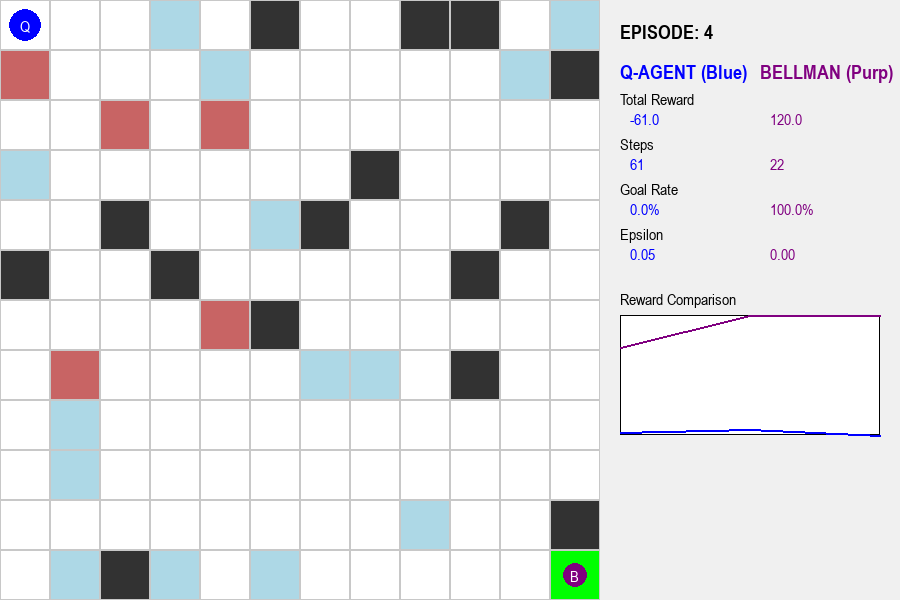
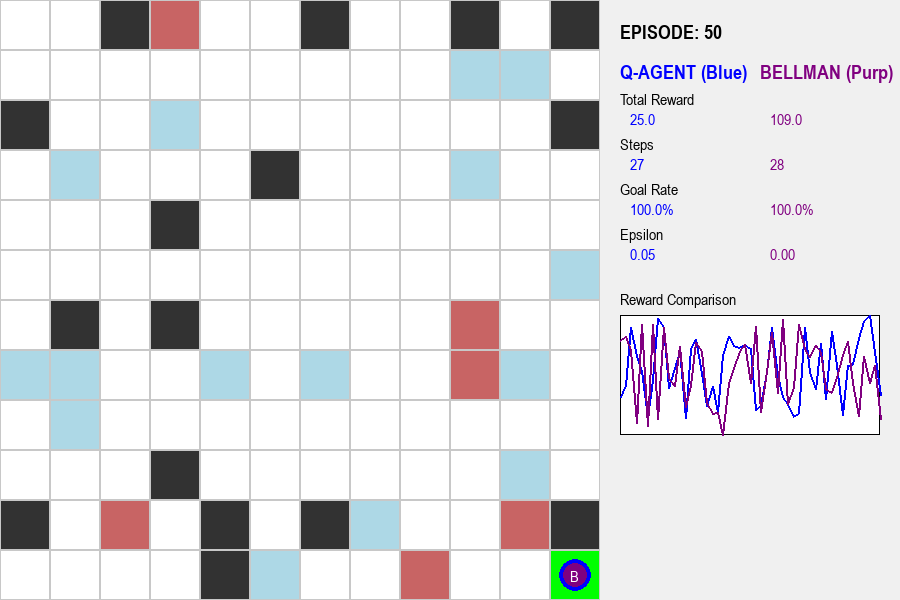
step 3: convertion at last

diff --git a/code/environment.py b/code/environment.py
@@ -31,8 +31,10 @@ class GridWorld:
         self.dynamic_obstacles = set()
         self.dynamic_bonuses = set()
 
-    def randomize_layout(self):
+    def randomize_layout(self, seed=None):
         """Force-regenerates the entire city structure and physics."""
+        if seed is not None:
+            random.seed(seed)
         # 1. Reset all structures
         self.static_walls = set()
         self.static_traps = set()
@@ -45,7 +47,7 @@ class GridWorld:
         
         # 3. Randomize Coordinates
         all_coords = [(r, c) for r in range(self.grid_size) for c in range(self.grid_size)]
-        forbidden = {self.start_pos, self.goal_pos}
+        forbidden = {self.start_pos, self.goal_pos, self.q_pos, self.vi_pos, self.agent_pos}
         available = [c for c in all_coords if c not in forbidden]
         
         # Re-shuffle to ensure true randomness per call
@@ -91,9 +93,10 @@ class GridWorld:
         return (nr, nc)
 
     def step_dual(self, action_q, action_vi):
-        """Intra-episode step: Environment stays static."""
+        """Intra-episode step: Both agents move, THEN environment re-rolls."""
         self.q_pos = self._move_agent(self.q_pos, action_q)
         self.vi_pos = self._move_agent(self.vi_pos, action_vi)
+        self.randomize_layout()
         return self._get_result(self.q_pos), self._get_result(self.vi_pos)
 
     def _get_result(self, pos):
@@ -108,6 +111,7 @@ class GridWorld:
 
     def step(self, action):
         self.agent_pos = self._move_agent(self.agent_pos, action)
+        self.randomize_layout()
         next_pos, reward, done = self._get_result(self.agent_pos)
         self.agent_pos = next_pos
         return next_pos, reward, done

diff --git a/code/competition.py b/code/competition.py
@@ -97,8 +97,19 @@ def run_competition():
                 if event.type == pygame.QUIT: running = False
             
             # Action Selection
+            # Q-agent is model-free, acts based on state
             act_q = q_agent.choose_action(env.q_pos, epsilon=0.05) if not done_q else -1
-            act_vi = vi_solver.policy[env.vi_pos[0], env.vi_pos[1]] if not done_vi else -1
+            
+            # Bellman must recalculate policy per-step since the environment is fully dynamic
+            # But doing full value iteration per step is heavy, so we rely on its static evaluation of current visible obstacles.
+            # In our setup, get_transitions uses static_walls, so we just run VI for the current step.
+            if not done_vi:
+                vi_solver = ValueIterationSolver(env)
+                vi_solver.compute_v_iteration()
+                vi_solver.extract_policy()
+                act_vi = vi_solver.policy[env.vi_pos[0], env.vi_pos[1]]
+            else:
+                act_vi = -1
             
             (q_res, vi_res) = env.step_dual(act_q, act_vi)
             
